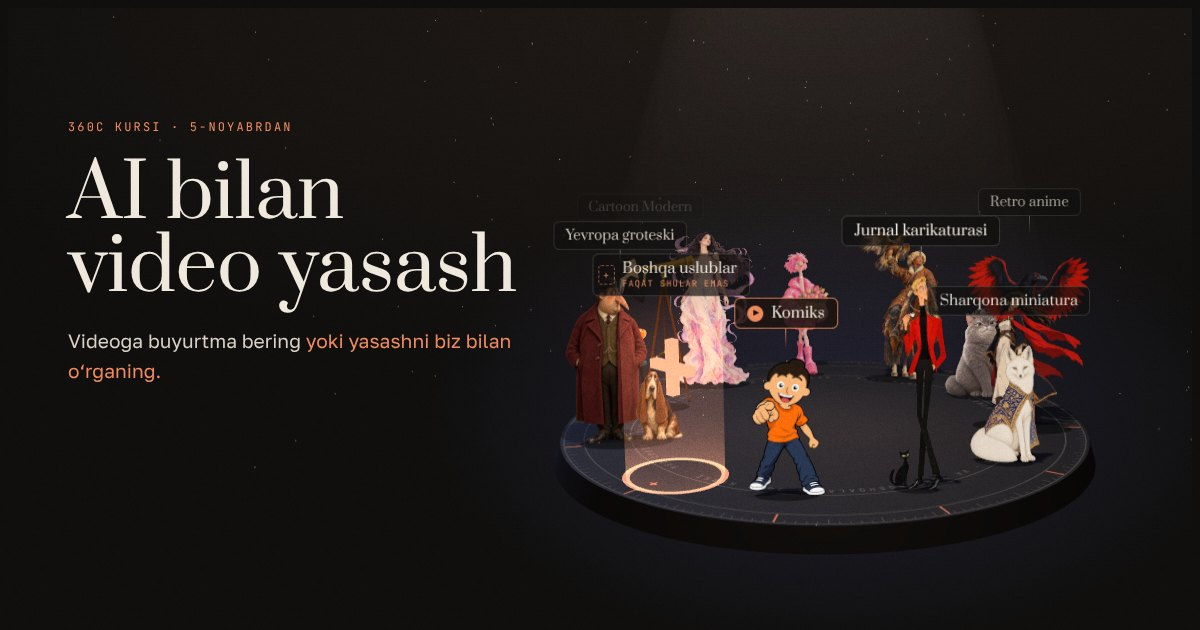
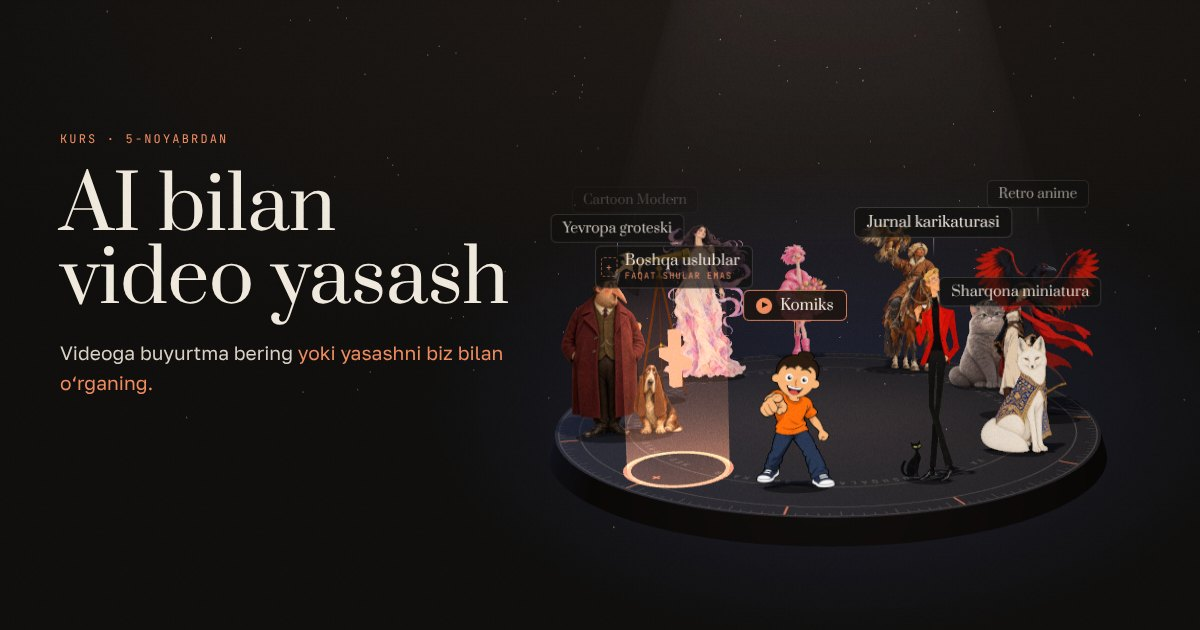
360 Kadr nomi va tepada loyihalar lentasi
- Tepada yuguruvchi 'Loyihalarimiz' lentasi: med.comix, tech.comix, saif.multix, vet.maslahat, agar.comix
- Nom: 360 Kadr; bosh ekran yozuvi 'Kurs · 5-noyabrdan'
- Videolar faqat kerak bo'lganda yuklanadi
- Sahifa chetidagi ortiqcha bo'shliq tuzatildi

Claude-Session: https://claude.ai/code/session_01RZPxfuNu6cK4zYDF5pJoxi

diff --git a/index.html b/index.html
@@ -3,15 +3,16 @@
 <head>
 <meta charset="utf-8">
 <meta name="viewport" content="width=device-width,initial-scale=1,viewport-fit=cover">
-<title>360c kursi — AI bilan video yasash</title>
+<title>360 Kadr — AI bilan video yasash</title>
 <meta name="description" content="Videoga buyurtma bering yoki yasashni biz bilan o‘rganing. med.comix jamoasining AI video kursi — 5-noyabrdan.">
 <meta name="theme-color" content="#100f0e">
+<style>body{margin:0}img{max-width:100%}[hidden]{display:none!important}</style>
 <link rel="canonical" href="https://ai-analitik.github.io/360c-uz/">
 <link rel="icon" href="favicon.svg" type="image/svg+xml">
 <link rel="apple-touch-icon" href="icon-180.png">
 <meta property="og:type" content="website">
-<meta property="og:site_name" content="360c">
-<meta property="og:title" content="360c kursi — AI bilan video yasash">
+<meta property="og:site_name" content="360 Kadr">
+<meta property="og:title" content="360 Kadr — AI bilan video yasash">
 <meta property="og:description" content="Videoga buyurtma bering yoki yasashni biz bilan o‘rganing. 5-noyabrdan.">
 <meta property="og:image" content="https://ai-analitik.github.io/360c-uz/og.jpg">
 <meta property="og:image:width" content="1200">
@@ -87,12 +88,22 @@ nav.links a:hover{color:var(--paper)}
 header.top{transition:background .3s}
 header.top.solid{background:rgba(16,15,14,.9);-webkit-backdrop-filter:blur(10px);backdrop-filter:blur(10px);box-shadow:0 1px 0 var(--line)}
 header.top.solid .bar{background:none}
+/* our projects: a quiet running strip above the bar */
+.pstrip{display:flex;align-items:center;height:30px;background:var(--ink2);border-bottom:1px solid var(--line);overflow:hidden;padding-left:var(--gx)}
+.pstrip .lbl{flex:none;height:100%;display:flex;align-items:center;padding-right:14px;font-family:var(--f-mono);font-size:10px;letter-spacing:.16em;text-transform:uppercase;color:var(--ember);background:var(--ink2);position:relative;z-index:1;box-shadow:16px 0 14px var(--ink2)}
+.pstrip .marq{display:flex;width:max-content;animation:prun 80s linear infinite}
+.pstrip:hover .marq{animation-play-state:paused}
+.pstrip .marq a{display:flex;align-items:center;gap:16px;padding:0 16px;font-family:var(--f-mono);font-size:11px;letter-spacing:.1em;color:var(--mute);text-decoration:none;white-space:nowrap;transition:color .2s}
+.pstrip .marq a:after{content:"·";color:rgba(239,232,220,.3)}
+.pstrip .marq a:hover,.pstrip .marq a:focus-visible{color:var(--paper)}
+@keyframes prun{to{transform:translateX(-50%)}}
+@media (prefers-reduced-motion:reduce){.pstrip .marq{animation:none}.pstrip{overflow-x:auto}}
 
 /* hero = the 360° stage */
 .hero{position:relative;z-index:1;min-height:100svh;overflow:hidden;background:
   radial-gradient(48% 52% at 70% 64%,var(--glow,rgba(239,139,95,.18)),rgba(0,0,0,0) 72%),
   radial-gradient(120% 90% at 62% 0%,#201a16 0%,var(--ink) 64%)}
-.hero .copy{position:relative;z-index:3;max-width:calc(600px + var(--gx));padding-top:calc(clamp(110px,16vh,170px) + env(safe-area-inset-top,0px));padding-bottom:80px;pointer-events:none}
+.hero .copy{position:relative;z-index:3;max-width:calc(600px + var(--gx));padding-top:calc(clamp(130px,18vh,190px) + env(safe-area-inset-top,0px));padding-bottom:80px;pointer-events:none}
 .hero .copy a,.hero .copy button{pointer-events:auto}
 .hero h1{font-size:clamp(44px,6.2vw,98px);line-height:.98;margin:22px 0 22px}
 .hero .sub{font-size:clamp(18px,1.6vw,22px);color:#d9d1c4;max-width:29em}
@@ -137,7 +148,7 @@ header.top.solid .bar{background:none}
 .no-gl .cast-fallback img{height:150px;width:auto}
 .no-gl #cast,.no-gl .tags{display:none}
 @media (max-width:819px){
-  .hero{min-height:0;padding-top:calc(56px + env(safe-area-inset-top,0px));background:radial-gradient(90% 40% at 50% 74%,var(--glow,rgba(239,139,95,.18)),rgba(0,0,0,0) 72%),radial-gradient(140% 70% at 50% 0%,#201a16 0%,var(--ink) 64%)}
+  .hero{min-height:0;padding-top:calc(86px + env(safe-area-inset-top,0px));background:radial-gradient(90% 40% at 50% 74%,var(--glow,rgba(239,139,95,.18)),rgba(0,0,0,0) 72%),radial-gradient(140% 70% at 50% 0%,#201a16 0%,var(--ink) 64%)}
   .hero .copy{padding-top:4px;padding-bottom:0}
   .hero h1{margin:14px 0 14px}
   .stats{margin-top:26px}
@@ -289,7 +300,7 @@ header.top.solid .bar{background:none}
 .tg .pi:after{content:"";position:absolute;left:6px;top:4.5px;border-left:6px solid #1b0f0a;border-top:3.5px solid transparent;border-bottom:3.5px solid transparent}
 .tg.on .pi,.tg:hover .pi{display:block}
 .tg.plus .pi{display:none!important}
-.stagecap{position:absolute;z-index:3;left:70%;top:calc(84px + env(safe-area-inset-top,0px));transform:translateX(-50%);display:flex;flex-direction:column;align-items:center;gap:8px;pointer-events:none;white-space:nowrap;color:#fff;font-family:var(--f-mono);font-size:15px;font-weight:400;letter-spacing:.18em;text-transform:uppercase;text-shadow:0 0 18px rgba(239,139,95,.55),0 1px 2px rgba(0,0,0,.6)}
+.stagecap{position:absolute;z-index:3;left:70%;top:calc(114px + env(safe-area-inset-top,0px));transform:translateX(-50%);display:flex;flex-direction:column;align-items:center;gap:8px;pointer-events:none;white-space:nowrap;color:#fff;font-family:var(--f-mono);font-size:15px;font-weight:400;letter-spacing:.18em;text-transform:uppercase;text-shadow:0 0 18px rgba(239,139,95,.55),0 1px 2px rgba(0,0,0,.6)}
 .stagecap svg{width:18px;height:28px;color:var(--ember);filter:drop-shadow(0 0 8px rgba(239,139,95,.8));animation:nudge 1.8s ease-in-out infinite}
 @keyframes nudge{0%,100%{transform:translateY(0);opacity:.8}50%{transform:translateY(7px);opacity:1}}
 @keyframes ping{0%{box-shadow:0 0 0 0 rgba(239,139,95,.55)}70%{box-shadow:0 0 0 14px rgba(239,139,95,0)}100%{box-shadow:0 0 0 0 rgba(239,139,95,0)}}
@@ -327,8 +338,9 @@ footer .r{display:flex;gap:22px;flex-wrap:wrap}
 </head>
 <body>
 <header class="top">
+  <div class="pstrip"><span class="lbl" data-i18n="strip_lbl">Loyihalarimiz</span><div class="marq" id="marq"></div></div>
   <div class="bar">
-    <a class="brand" href="#top"><b data-i18n="brand">360c kursi</b><span data-i18n="brand_sub">med.comix jamoasi</span></a>
+    <a class="brand" href="#top"><b>360 Kadr</b></a>
     <nav class="links" aria-label="Bo‘limlar">
       <a href="#xizmat" data-i18n="nav_svc">Video buyurtma</a>
       <a href="#dastur" data-i18n="nav_prog">Dastur</a>
@@ -353,7 +365,7 @@ footer .r{display:flex;gap:22px;flex-wrap:wrap}
     <div class="cast-fallback" id="castFb"></div>
   </div>
   <div class="copy gut">
-    <p class="eyebrow" data-i18n="hero_eyebrow">360c kursi · 5-noyabrdan</p>
+    <p class="eyebrow" data-i18n="hero_eyebrow">Kurs · 5-noyabrdan</p>
     <h1 data-i18n-html="hero_h1">AI bilan<br>video yasash</h1>
     <p class="sub" data-i18n-html="hero_sub">Videoga buyurtma bering <em>yoki yasashni biz bilan o‘rganing.</em></p>
     <div class="ctas paths">
@@ -504,7 +516,7 @@ footer .r{display:flex;gap:22px;flex-wrap:wrap}
 </div>
 
 <footer class="gut">
-  <span><span data-i18n="brand">360c kursi</span> · <span data-i18n="brand_sub">med.comix jamoasi</span></span>
+  <span>360 Kadr</span>
   <div class="r">
     <a href="https://t.me/comix_admin" target="_blank" rel="noopener"><span data-i18n="f_q">Savollar</span>: t.me/comix_admin</a>
     <a href="https://t.me/comix360" target="_blank" rel="noopener"><span data-i18n="f_c">Kanal</span>: t.me/comix360</a>
@@ -532,7 +544,7 @@ window.MODS=[
 window.I18N={
  uz:{},
  ru:{brand_sub:'команда med.comix',nav_prog:'Программа',nav_price:'Тарифы',cta_short:'Записаться',nav_who:'Для кого',nav_enroll:'Запись',nav_svc:'Заказ видео',
-  brand:'Курс 360c',hero_eyebrow:'Курс 360c · с 5 ноября',hero_h1:'Видео<br>с помощью&nbsp;ИИ',hero_sub:'Закажите видео <em>или научитесь делать его с&nbsp;нами.</em>',
+  strip_lbl:'Наши проекты',hero_eyebrow:'Курс · с 5 ноября',hero_h1:'Видео<br>с помощью&nbsp;ИИ',hero_sub:'Закажите видео <em>или научитесь делать его с&nbsp;нами.</em>',
   cta_main:'Записаться на курс',st1:'дней',st2:'подписчиков',st3:'охват',c_hint:'Крутите сцену',c_cap:'Нажмите на героя',
   p_eye:'10 модулей',p_h:'Чему вы научитесь',p_chip1:'01–07 · Start и Pro',p_chip2:'08–10 · только Pro',
   k_h:'Для кого',k1:'Блогер',k2:'Бизнес',k3:'Фрилансер',
@@ -709,7 +721,7 @@ else {
     g.lineWidth=5; g.strokeStyle='rgba(239,139,95,.95)'; g.beginPath(); g.moveTo(Math.cos(ph)*1006,Math.sin(ph)*1006); g.lineTo(Math.cos(ph)*940,Math.sin(ph)*940); g.stroke();
     g.save(); g.rotate(ph-Math.PI/2); g.fillStyle=c.plus?'rgba(239,139,95,.95)':'rgba(239,232,220,.85)'; g.font='64px "JetBrains Mono", monospace'; if(c.plus) g.fillText('+',0,880); g.restore(); });
   g.font='36px "JetBrains Mono", monospace'; g.fillStyle='rgba(239,232,220,.30)';
-  const ring=' 360C KURSI · MED.COMIX JAMOASI · 13+ USLUB · VA YANA BOSHQALAR ·'; const chars=[...(ring+ring)];
+  const ring=' 360 KADR · MED.COMIX JAMOASI · 13+ USLUB · VA YANA BOSHQALAR ·'; const chars=[...(ring+ring)];
   chars.forEach((ch,i)=>{ const a=i/chars.length*Math.PI*2; g.save(); g.rotate(a); g.fillText(ch,0,-720); g.restore(); });
   }
   drawDial();
@@ -852,6 +864,9 @@ function countUp(){ document.querySelectorAll('[data-count]').forEach(el=>{ cons
   const o={v:0}; gsap.to(o,{v:to,duration:1.6,ease:'power2.out',delay:.4,onUpdate:()=>{ const suf=el.dataset.suf?(' '+(lang==='ru'?'млн':'mln')):''; el.textContent=Math.round(o.v).toLocaleString('ru-RU').replace(/,/g,' ')+suf}}); }); }
 
 /* ---------- header goes solid once you scroll ---------- */
+/* our projects strip: repeated so the loop never shows a gap on wide screens */
+const PROJ=['med.comix','tech.comix','saif.multix','vet.maslahat','agar.comix'];
+(()=>{ const one=PROJ.map(h=>`<a href="https://www.instagram.com/${h}/" target="_blank" rel="noopener">${h}</a>`).join(''); const half=one.repeat(4); const m=document.getElementById('marq'); m.innerHTML=half+half; m.querySelectorAll('a').forEach((a,i)=>{ if(i>=PROJ.length*4){ a.tabIndex=-1; a.setAttribute('aria-hidden','true'); } }); })();
 const hdr=document.querySelector('header.top'); const solid=()=>hdr.classList.toggle('solid',scrollY>24); addEventListener('scroll',solid,{passive:true}); solid();
 
 /* ---------- init lang ---------- */

diff --git a/README.md b/README.md
@@ -1,4 +1,4 @@
-# 360c kursi — sayt (360c.uz)
+# 360 Kadr — kurs va video buyurtma sayti (360c.uz)
 
 med.comix jamoasining "AI bilan video yasash" kursi va video buyurtma xizmati sayti (UZ/RU).
 
